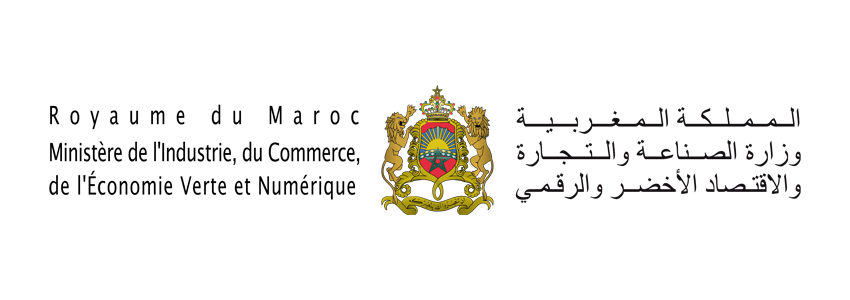
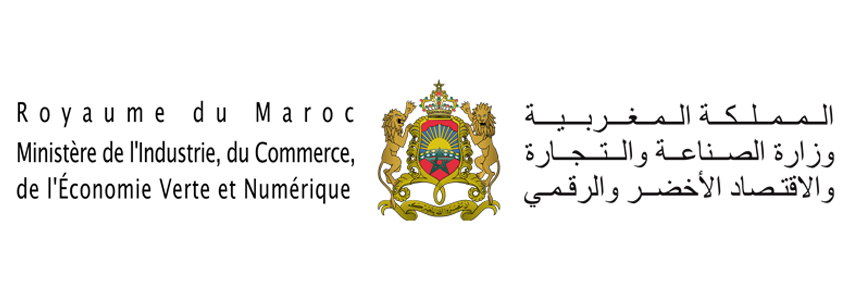
fixed img sizing

Changed region(s): [[0.0, 0.27, 1.0, 0.75]]

diff --git a/index.html b/index.html
@@ -158,14 +158,14 @@
 <div class="mySlides fade">
   <div class="numbertext">1 / 3</div>
   <center>
-    <img src="img/spon1.png" style="width:50%">
+    <img class="spon" src="img/spon1.png">
   </center>
 </div>
 
 <div class="mySlides fade">
   <div class="numbertext">2 / 3</div>
   <center>
-    <img src="img/spon2.png" style="width:50%">
+    <img class="spon" src="img/spon2.png">
   </center>
 
 </div>
@@ -173,7 +173,7 @@
 <div class="mySlides fade">
   <div class="numbertext">3 / 3</div>
   <center>
-    <img src="img/spon3.png" style="width:50%">
+    <img class="spon" src="img/spon3.png">
   </center>
 </div>
 <center>    

diff --git a/style.css b/style.css
@@ -565,6 +565,10 @@ footer #social-media-footer ul li:hover a .fa-twitter {
   }
 }
 
+.spon{
+  width: 50%;
+}
+
 @media (max-width: 719px) {
   main {
     width: 95%;
@@ -591,6 +595,10 @@ footer #social-media-footer ul li:hover a .fa-twitter {
     border-right: 0;
     padding-left: 0;
   }
+
+.spon{
+  width: 70%;
+}
 }
 
 @media (max-width: 600px) {
